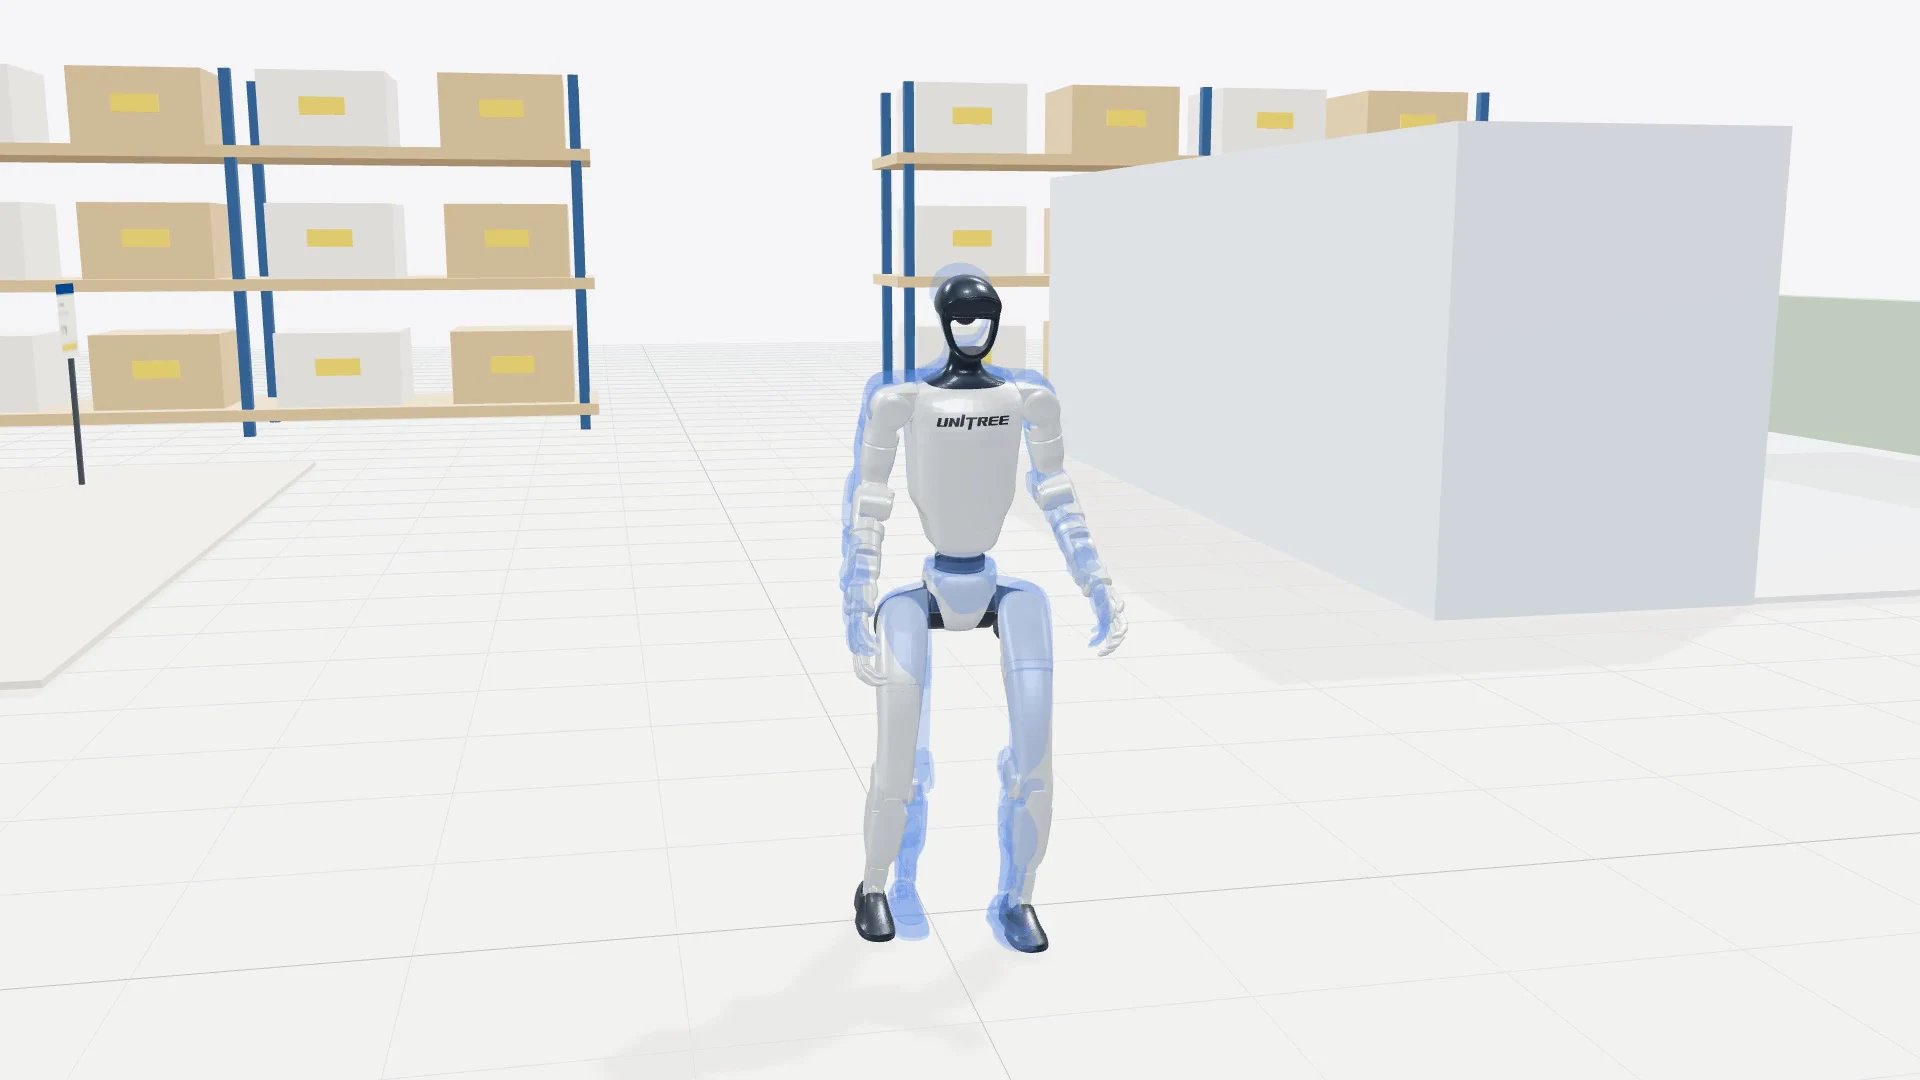
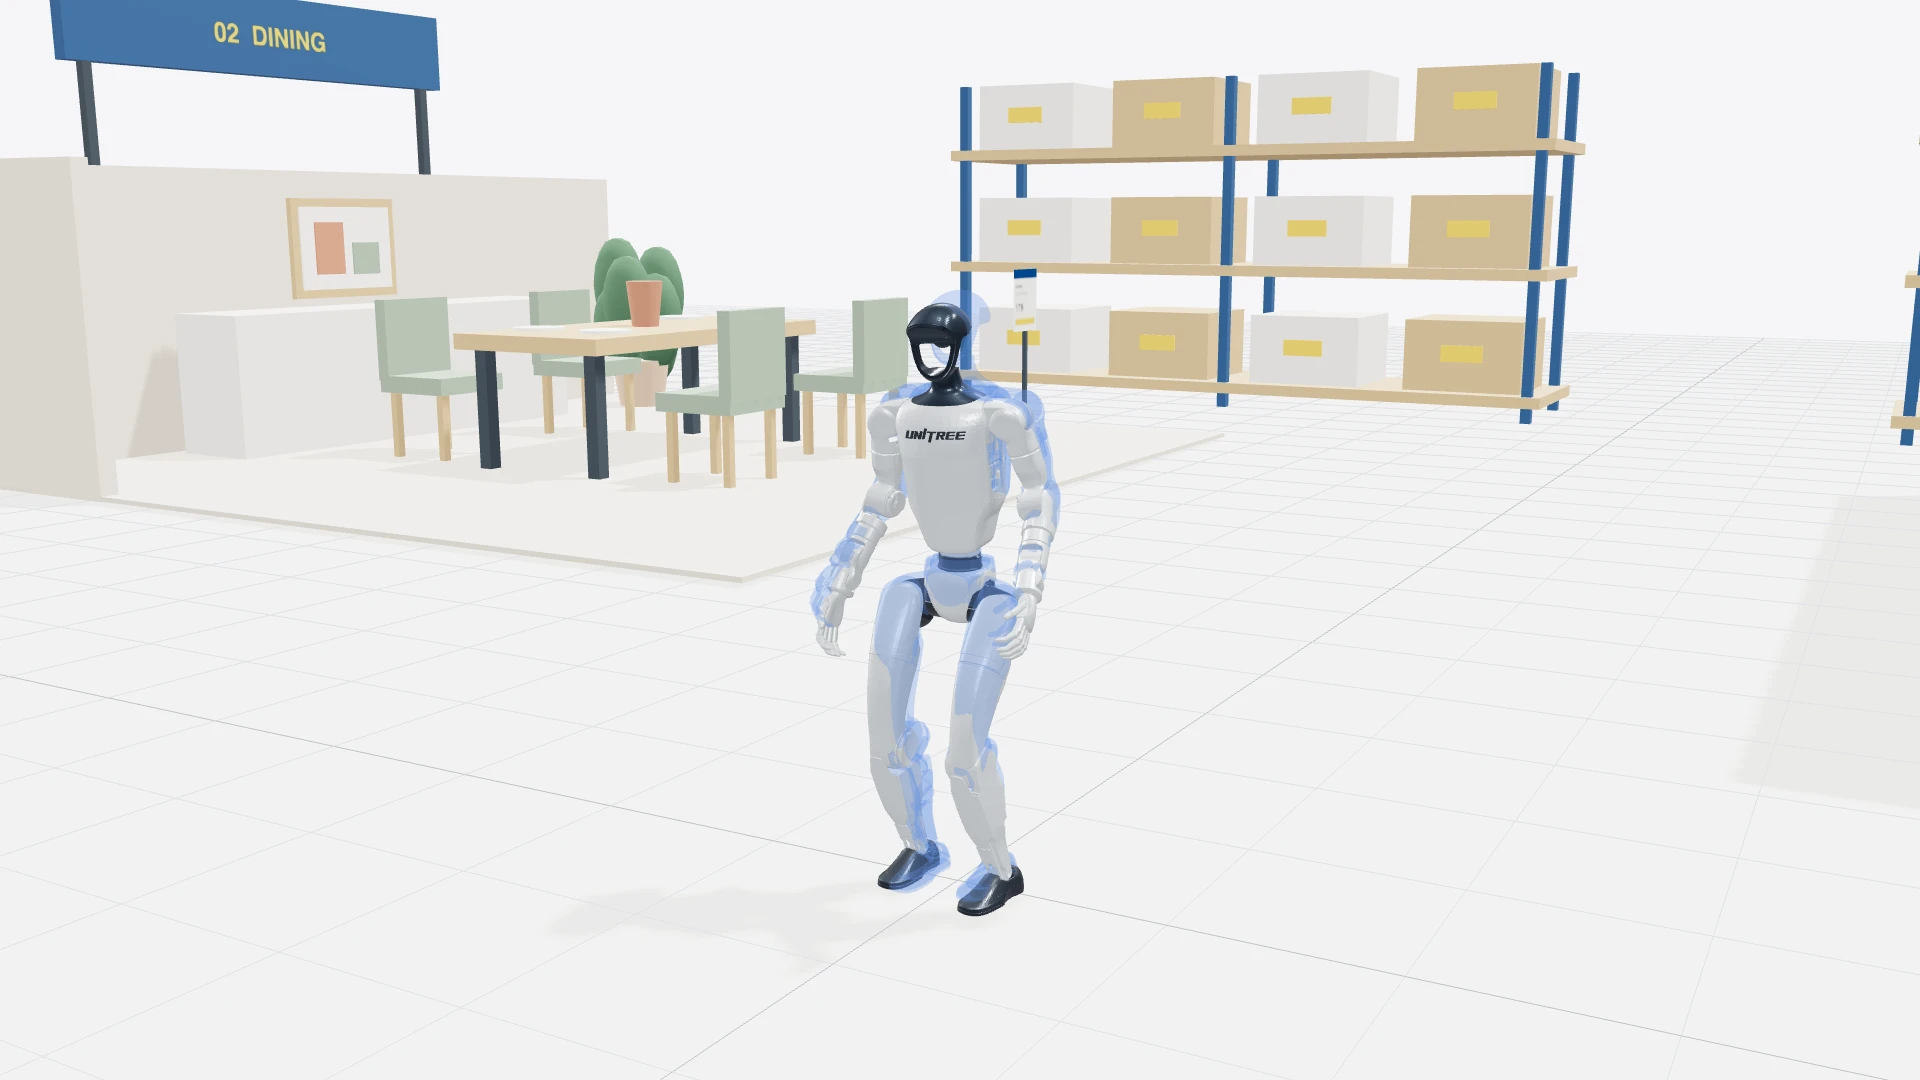
Frame all four native-resolution posters toward the showroom dining area

Changed region(s): [[0.0, 0.0, 1.0, 0.8861], [0.1875, 0.4889, 0.3125, 0.5194], [0.0, 0.6111, 0.0312, 0.6417]]

diff --git a/src/patrol/eye.js b/src/patrol/eye.js
@@ -67,7 +67,8 @@ export async function makeEye(canvas, signal, cfg, tracking = false) {
         }
       }
       target.set(s.xy[0],s.xy[1],targetHeight);
-      offset.copy(initialOffset).applyAxisAngle(vertical,s.yaw);
+      if(angle==="poster")offset.set(3.1,1.75,.67);
+      else offset.copy(initialOffset).applyAxisAngle(vertical,s.yaw);
       for(let lift=0;lift<14;lift++){
         ray.set(target,offset.clone().normalize());
         if(!racks.some(box=>{const hit=ray.intersectBox(box,new THREE.Vector3());return hit&&hit.distanceTo(target)<offset.length();}))break;
